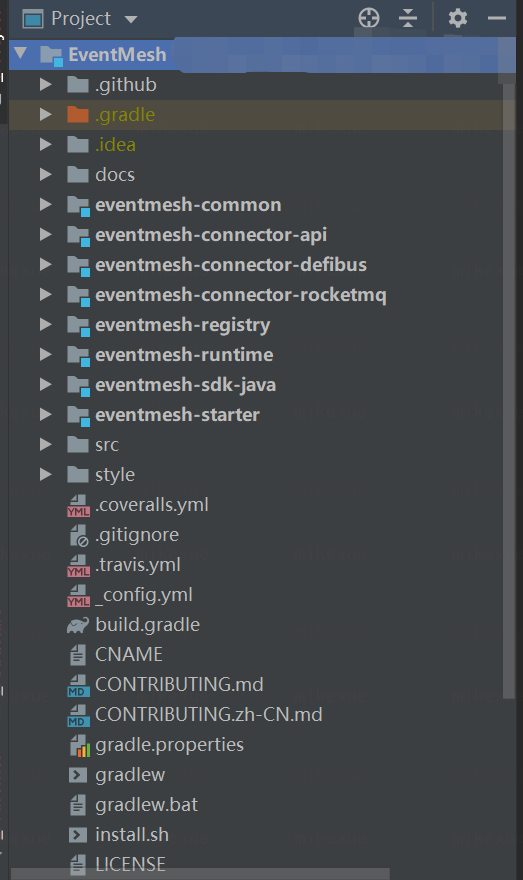
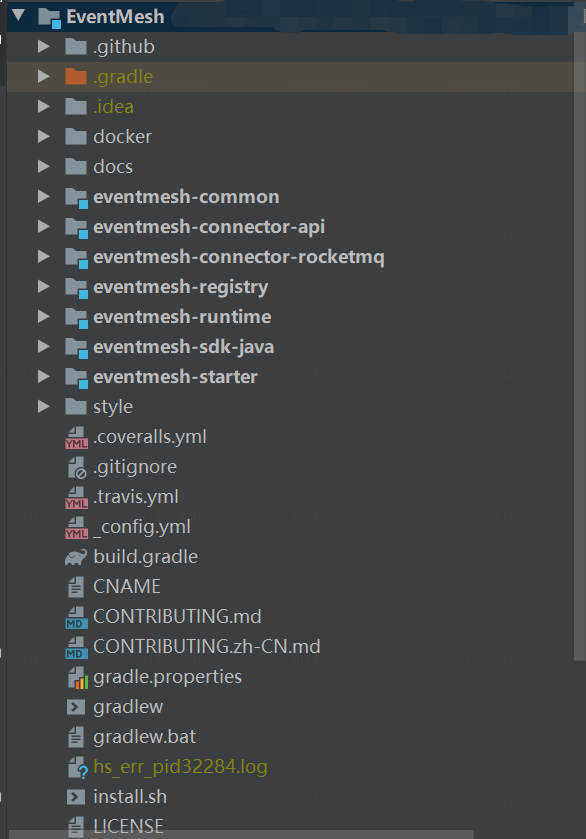
1.update .md files 2.update eventmesh-panels.png project-structure.png

Changed region(s): [[0.0, 0.0, 1.0, 1.0], [0.7342, 0.9917, 0.826, 1.0], [0.0, 0.9917, 0.0306, 1.0]]

diff --git a/docs/README.md b/docs/README.md
@@ -6,14 +6,14 @@
 [点我查看中文版](cn/README.md)
 
 ## What is Event Mesh?
-This figure shows the positioning of the event mesh relative to other similar technologies (such as service mesh) in the application framework.
+EventMesh is a dynamic cloud-native eventing infrastruture used to decouple the application and backend middleware layer, which supports a wide range of use cases that encompass complex multi-cloud, widely distributed topologies using diverse technology stacks.
 ![architecture1](images/eventmesh-define.png)
 
-Event Mesh is a dynamic plug-in cloud-native basic service layer used to decouple the application and middleware layer. It provides flexible, reliable and fast event distribution, and can be managed.
+**EventMesh Architecture:**
 
 ![architecture1](images/eventmesh-runtime.png)
 
-Cloud Native Event Mesh:
+**EventMesh Cloud Native Structure:**
 
 ![architecture2](images/eventmesh-panels.png)
 
@@ -25,13 +25,13 @@ General functions of the event mesh:
 * Cloud native
 
 Dependent components:
-* DeFiBus : a distributed messaging platform with low latency, high performance and reliability, flexible scalability. [DeFiBus](https://github.com/WeBankFinTech/DeFiBus)
-* RocketMQ
+* [DeFiBus](https://github.com/WeBankFinTech/DeFiBus) : a distributed messaging platform with low latency, high performance and reliability, flexible scalability. 
+* [RocketMQ](https://github.com/apache/rocketmq):RocketMQ is a distributed messaging and streaming platform with low latency, high performance and reliability, trillion-level capacity and flexible scalability.
 
 Key components:
 * eventmesh-runtime : an middleware to transmit events between event producers and consumers, support cloud native apps and microservices
 * eventmesh-sdk-java : currently supports HTTP and TCP protocols, and will support gRPC in the future
-* eventmesh-registry : automatically routes events between applications and services connected to seperate event meshers, manage eventmesh-runtime
+* eventmesh-registry : automatically routes events between applications and services connected to seperate EventMeshes, manage eventmesh-runtime
 
 ## RoadMap
 | version | feature |
@@ -39,7 +39,7 @@ Key components:
 | v1.0.0  |Support DeFiBus as eventstore, support pub/sub, http api, java-sdk|
 | v1.1.0  |Support rocketmq as eventstore|
 | v1.2.0  |Support Plug-in architecture, support http sub|
-| V1.3.0 |Support cloud event protocal|
+| V1.3.0 |Support CloudEvents protocal|
 |   |Support transaction event|
 |         |Support Event Sourcing|
 |         |Support Event orchestration|
@@ -50,7 +50,7 @@ Key components:
 |         |Support Skywalking|
 |         |Support Spiffe|
 |         |Support gRPC|
-|         |Support c/go/python/nodejs SDK|
+|         |Support c/go/python/NodeJs/wasm SDK|
 
 ## Quick Start
 1. Build and deploy event-store([DeFiBus](https://github.com/WeBankFinTech/DeFiBus)), 

diff --git a/docs/eventmesh.md b/docs/eventmesh.md
@@ -1,30 +1,31 @@
 ## 什么是Event Mesh？
-该图显示了Event Mesh相对于应用程序框架中其他类似技术(例如Service Mesh)的定位.
+EventMesh是一个动态的云原生事件驱动架构基础设施，用于分离应用程序和后端中间件层，它支持广泛的用例，包括复杂的混合云、使用了不同技术栈的分布式架构。
 ![architecture1](images/eventmesh-define.png)
 
-Event Mesh是一个动态的插件式云原生基础服务层，用于分离应用程序和中间件层。它提供了灵活，可靠和快速的事件分发，并且可以进行管理：
+**EventMesh架构：**
 
 ![architecture1](images/eventmesh-runtime.png)
 
-云原生Event Mesh：
+**EventMesh云原生结构：**
 
 ![architecture2](images/eventmesh-panels.png)
 
-Event Mesh允许将来自一个应用程序的事件动态路由到任何其他应用程序.
-Event Mesh的一般功能:
+EventMesh允许将来自一个应用程序的事件动态路由到任何其他应用程序.
+EventMesh的一般功能:
+
 * 事件驱动;
 * 事件治理;
 * 动态路由;
 * 云原生;
 
 依赖部件：
-* 可选1：DeFiBus：具有低延迟，高性能和可靠性，和灵活可伸缩性的分布式消息传递平台 [DeFiBus](https://github.com/WeBankFinTech/DeFiBus)
-* 可选2：RocketMQ
+* 可选1：[DeFiBus](https://github.com/WeBankFinTech/DeFiBus)：具有低延迟，高性能和可靠性，和灵活可伸缩性的分布式消息传递平台 
+* 可选2：[RocketMQ](https://github.com/apache/rocketmq)：RocketMQ是一个分布式消息流平台，具有低延迟、高性能和可靠性、万亿级容量和灵活的可伸缩性。
 
 关键部件：
-* event mesher：一种中间件，用于在事件产生者和使用者之间传输事件，支持云原生应用程序和微服务
+* EventMesh：一种中间件，用于在事件产生者和使用者之间传输事件，支持云原生应用程序和微服务
 * sdk：当前支持HTTP和TCP协议，未来会支持gRPC等
-* registry：自动在连接到事件网格的应用程序和服务之间路由事件, 管理event mesher
+* registry：自动在连接到事件网格的应用程序和服务之间路由事件, 管理EventMesh
 
 
 ## 开源地址

diff --git a/docs/en/instructions/eventmesh-runtime-quickstart.md b/docs/en/instructions/eventmesh-runtime-quickstart.md
@@ -54,7 +54,6 @@ Same with 1.2
 
 - eventmesh-common : eventmesh common classes and method module
 - eventmesh-connector-api : eventmesh connector api definition module
-- eventmesh-connector-defibus : eventmesh defibus connector module
 - eventmesh-connector-rocketmq : eventmesh rocketmq connector module
 - eventmesh-runtime : eventmesh runtime module
 - eventmesh-sdk-java : eventmesh java client sdk
@@ -75,15 +74,9 @@ ps：The loading of connector plugin follows the Java SPI mechanism,  it's neces
 
 Specify the connector that will be loaded after the project start with updating compile project item in dependencies
 
-> default load eventmesh-connector-defibus connector 
+update `build.gradle` file under the `eventmesh-starter` module
 
-```java
-dependencies {
-    compile project(":eventmesh-runtime"), project(":eventmesh-connector-defibus")
-}
-```
-
-load rocketmq connector configuration：
+load **rocketmq connector** configuration：
 
 ```java
 dependencies {
@@ -93,5 +86,5 @@ dependencies {
 
 **2.3.4 Run**
 
-running com.webank.eventmesh.starter.StartUp main method
+running `com.webank.eventmesh.starter.StartUp` main method
 

diff --git a/docs/cn/instructions/eventmesh-runtime-quickstart.zh-CN.md b/docs/cn/instructions/eventmesh-runtime-quickstart.zh-CN.md
@@ -59,7 +59,6 @@ sh start.sh
 ![](../../images/project-structure.png)
 - eventmesh-common : eventmesh公共类与方法模块
 - eventmesh-connector-api : eventmesh插件接口定义模块
-- eventmesh-connector-defibus : eventmesh defibus插件模块
 - eventmesh-connector-rocketmq : eventmesh rocketmq插件模块
 - eventmesh-runtime : eventmesh运行时模块
 - eventmesh-sdk-java : eventmesh java客户端sdk
@@ -80,15 +79,9 @@ sh start.sh
 
 通过修改dependencies，compile project 项来指定项目启动后加载的插件
 
-> 默认加载eventmesh-connector-defibus插件
+修改`eventmesh-starter`模块下面的`build.gradle`文件
 
-```java
-dependencies {
-    compile project(":eventmesh-runtime"), project(":eventmesh-connector-defibus")
-}
-```
-
-加载RocketMQ插件配置：
+加载**RocketMQ**插件配置：
 
 ```java
 dependencies {
